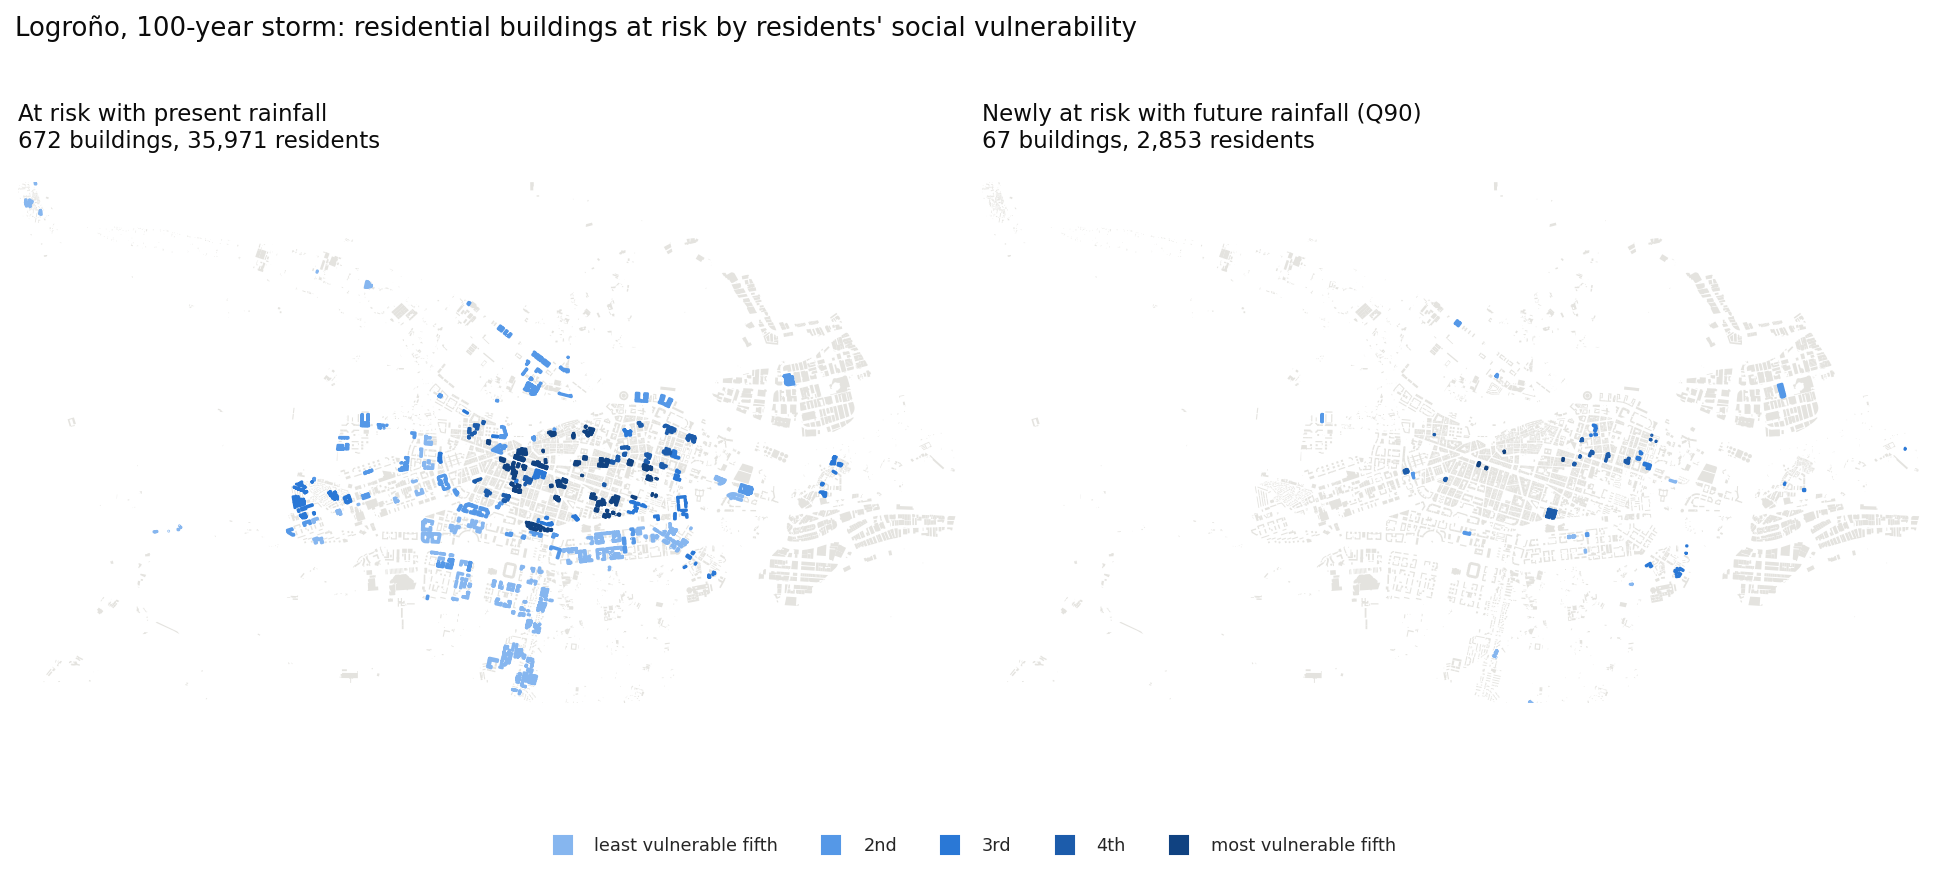
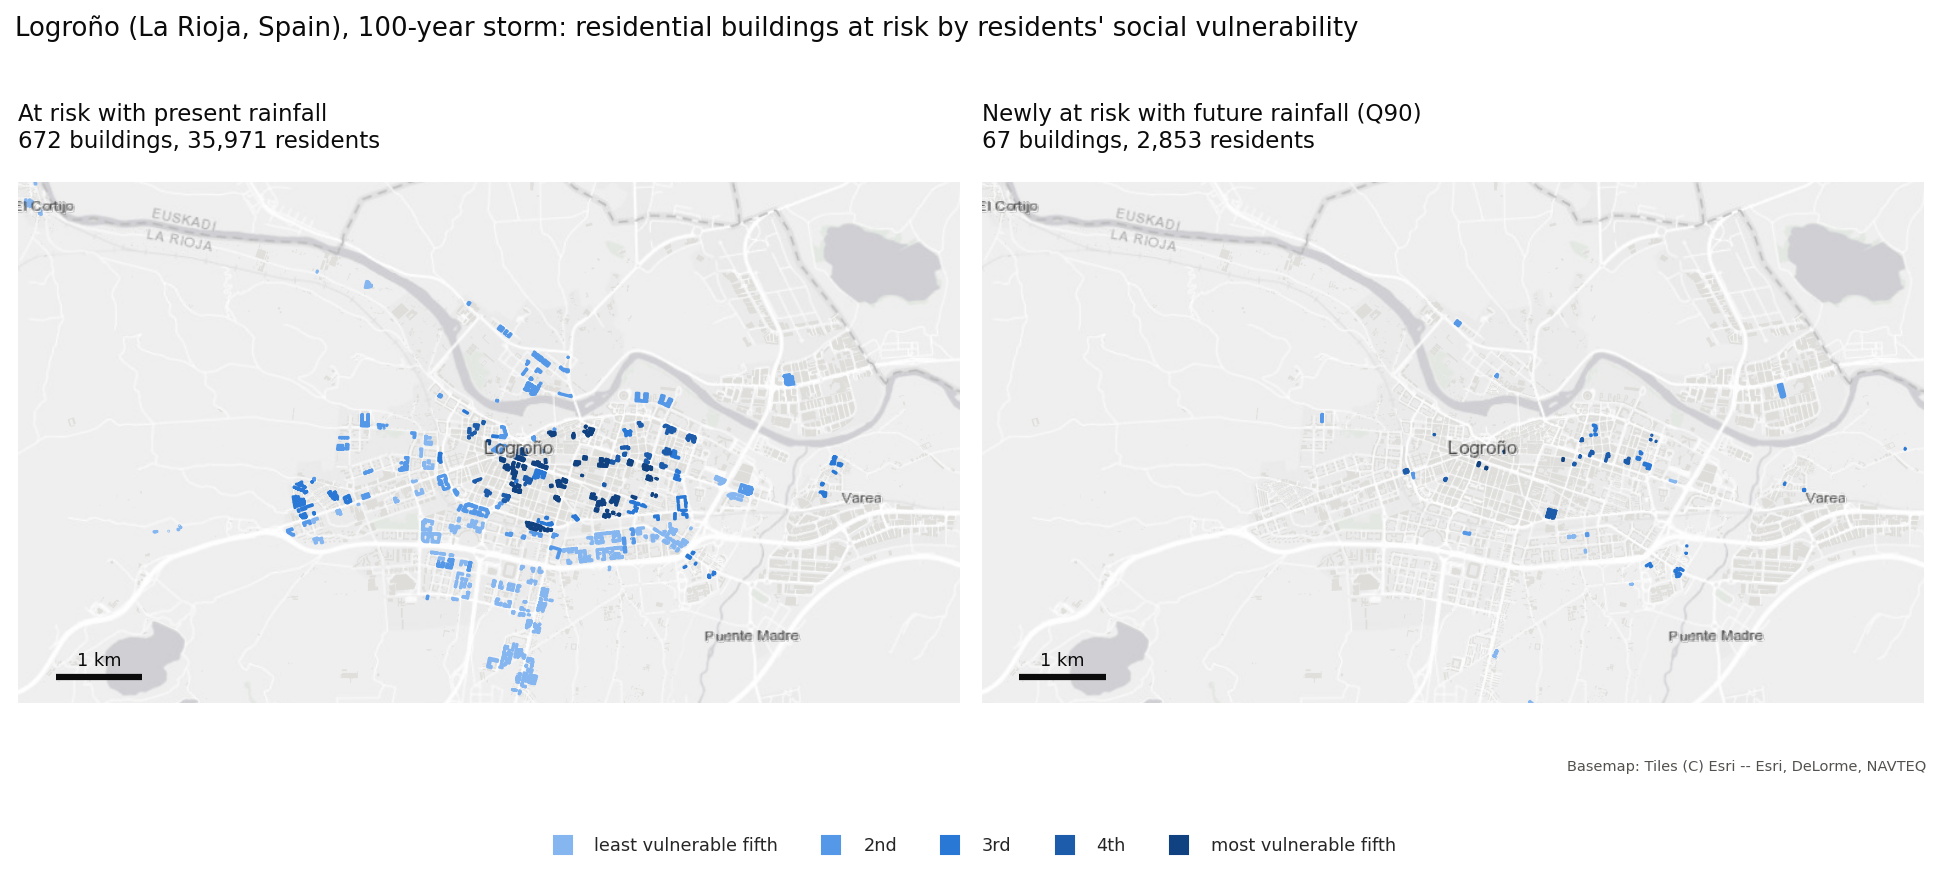
Priority map: basemap with place names, scale bar, location in the title
Esri World Light Gray Canvas with its labels layer (no API key; CARTO now
requires one and OpenStreetMap's tile servers refuse automated use), drawn
as context only, with a fallback to no basemap when tiles cannot be fetched.
Adds a 1 km scale bar and 'La Rioja, Spain' to the title.

diff --git a/notebooks/05_figures.py b/notebooks/05_figures.py
@@ -185,9 +185,22 @@ plt.show()
 # present rainfall. Right: newly at risk with future rainfall (Q90).
 # Vulnerability was not validated against impact data, and the measures were modelled only
 # as infiltration (SaferRAIN): a map of where to look, not of where to build.
+#
+# Basemap: Esri World Light Gray Canvas and its reference (labels) layer, fetched when the
+# figure is built — context only, nothing is computed from it; the labels are drawn above
+# the buildings. CARTO's tiles now require an API key and OpenStreetMap's own tile servers
+# refuse automated use, so neither is used. Without network access the map is drawn
+# without a basemap.
 
 # %%
+import contextily as cx  # noqa: E402
 import geopandas as gpd  # noqa: E402
+import xyzservices  # noqa: E402
+
+BASE = cx.providers.Esri.WorldGrayCanvas
+LABELS = xyzservices.TileProvider(
+    name="Esri.WorldGrayReference", attribution=BASE.attribution, max_zoom=16,
+    url="https://server.arcgisonline.com/ArcGIS/rest/services/Canvas/World_Light_Gray_Reference/MapServer/tile/{z}/{y}/{x}")
 
 GROUP_COLOUR = {1: "#86b6ef", 2: "#5598e7", 3: "#2a78d6", 4: "#1c5cab", 5: "#104281"}
 GROUP_LABEL = {1: "least vulnerable fifth", 2: "2nd", 3: "3rd", 4: "4th", 5: "most vulnerable fifth"}
@@ -204,23 +217,50 @@ gdf = (geom.merge(groups, on="ID").merge(status.reset_index(), on="ID")
 panels = {"At risk with present rainfall": gdf["present"],
           "Newly at risk with future rainfall (Q90)": gdf["CC_Q90"] & ~gdf["present"]}
 
+def add_basemap(ax) -> bool:
+    """Light tiles below the data and their labels above it; False if the tiles cannot be fetched."""
+    try:
+        cx.add_basemap(ax, crs=geom.crs, source=BASE, attribution=False, zorder=0)
+        cx.add_basemap(ax, crs=geom.crs, source=LABELS, attribution=False, zorder=10)
+        return True
+    except Exception as exc:  # noqa: BLE001 - context layer only, never fail the figure on it
+        print(f"basemap not drawn ({type(exc).__name__}): {str(exc)[:120]}")
+        return False
+
+
+def scale_bar(ax, length_m: float = 1000.0) -> None:
+    x0, x1 = ax.get_xlim()
+    y0, y1 = ax.get_ylim()
+    x, y = x0 + 0.04 * (x1 - x0), y0 + 0.05 * (y1 - y0)
+    ax.plot([x, x + length_m], [y, y], color=TEXT, lw=3, solid_capstyle="butt", zorder=11)
+    ax.text(x + length_m / 2, y + 0.015 * (y1 - y0), f"{length_m / 1000:g} km", ha="center", va="bottom",
+            fontsize=8.5, color=TEXT, zorder=11)
+
+
 urban = gpd.read_file(CITY, layer="urban_area").total_bounds
 fig, axes = plt.subplots(1, 2, figsize=(13, 5.6))
+basemap = []
 for ax, (title, mask) in zip(axes, panels.items()):
-    geom.plot(ax=ax, color="#e4e3df", linewidth=0)
+    ax.set_xlim(urban[0], urban[2])
+    ax.set_ylim(urban[1], urban[3])
+    geom.plot(ax=ax, color="#d6d5d0", linewidth=0, alpha=0.6)
     for g, colour in GROUP_COLOUR.items():
         sel = gdf[mask & (gdf["vulnerability_group"] == g)]
         if len(sel):  # outline in the fill colour keeps small buildings visible at city scale
             sel.plot(ax=ax, color=colour, edgecolor=colour, linewidth=1.2)
+    ax.set_xlim(urban[0], urban[2])
+    ax.set_ylim(urban[1], urban[3])
+    basemap.append(add_basemap(ax))
+    scale_bar(ax)
     ax.set_title(f"{title}\n{int(mask.sum())} buildings, {gdf.loc[mask, 'R'].sum():,.0f} residents",
                  loc="left", fontsize=11, color=TEXT)
     ax.set_axis_off()
-    ax.set_xlim(urban[0], urban[2])
-    ax.set_ylim(urban[1], urban[3])
+if all(basemap):
+    fig.text(0.99, 0.08, f"Basemap: {BASE.attribution}", ha="right", fontsize=7, color=MUTED)
 handles = [plt.Line2D([], [], marker="s", ls="", color=c, markersize=9, label=GROUP_LABEL[g])
            for g, c in GROUP_COLOUR.items()]
 fig.legend(handles=handles, loc="upper center", ncol=5, fontsize=8.5, frameon=False, bbox_to_anchor=(0.5, 0.02))
-fig.suptitle("Logroño, 100-year storm: residential buildings at risk by residents' social vulnerability",
+fig.suptitle("Logroño (La Rioja, Spain), 100-year storm: residential buildings at risk by residents' social vulnerability",
              x=0.01, ha="left", fontsize=12.5, color=TEXT)
 fig.tight_layout()
 assert_layout(fig)
